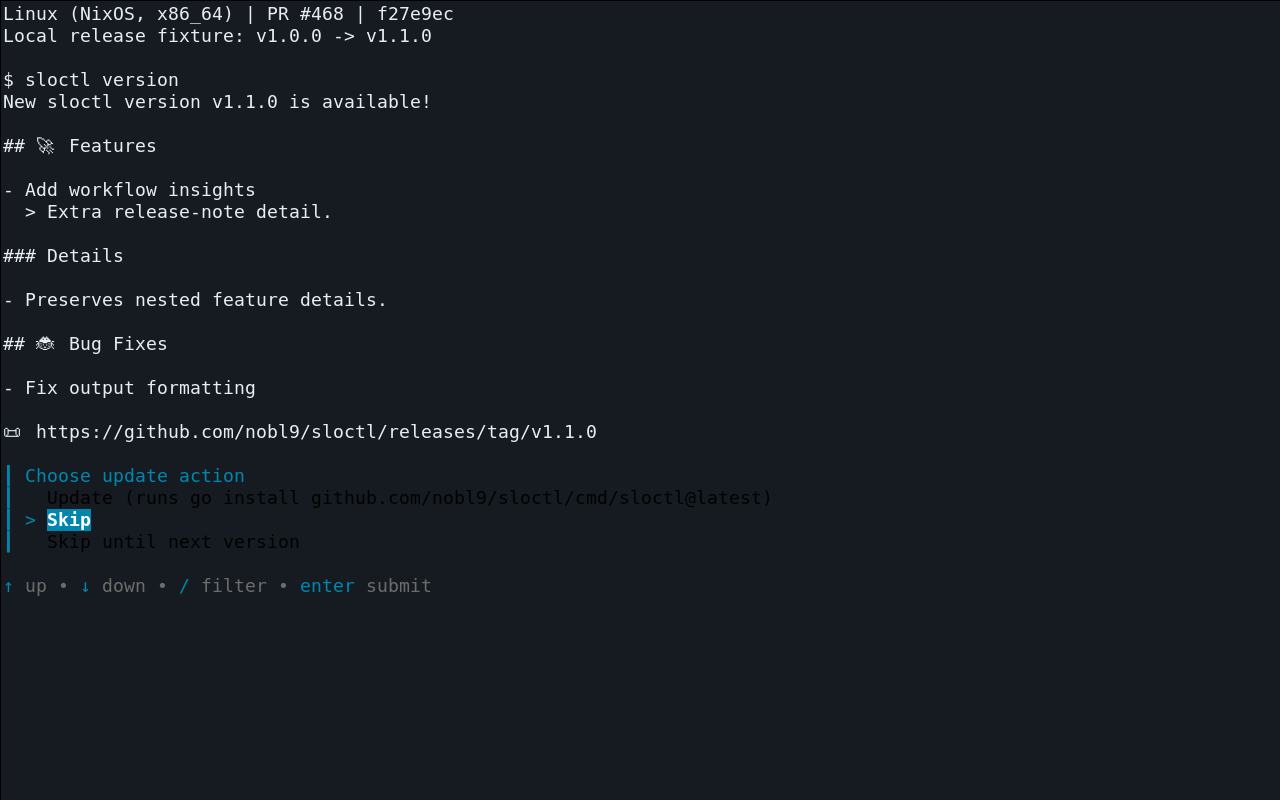
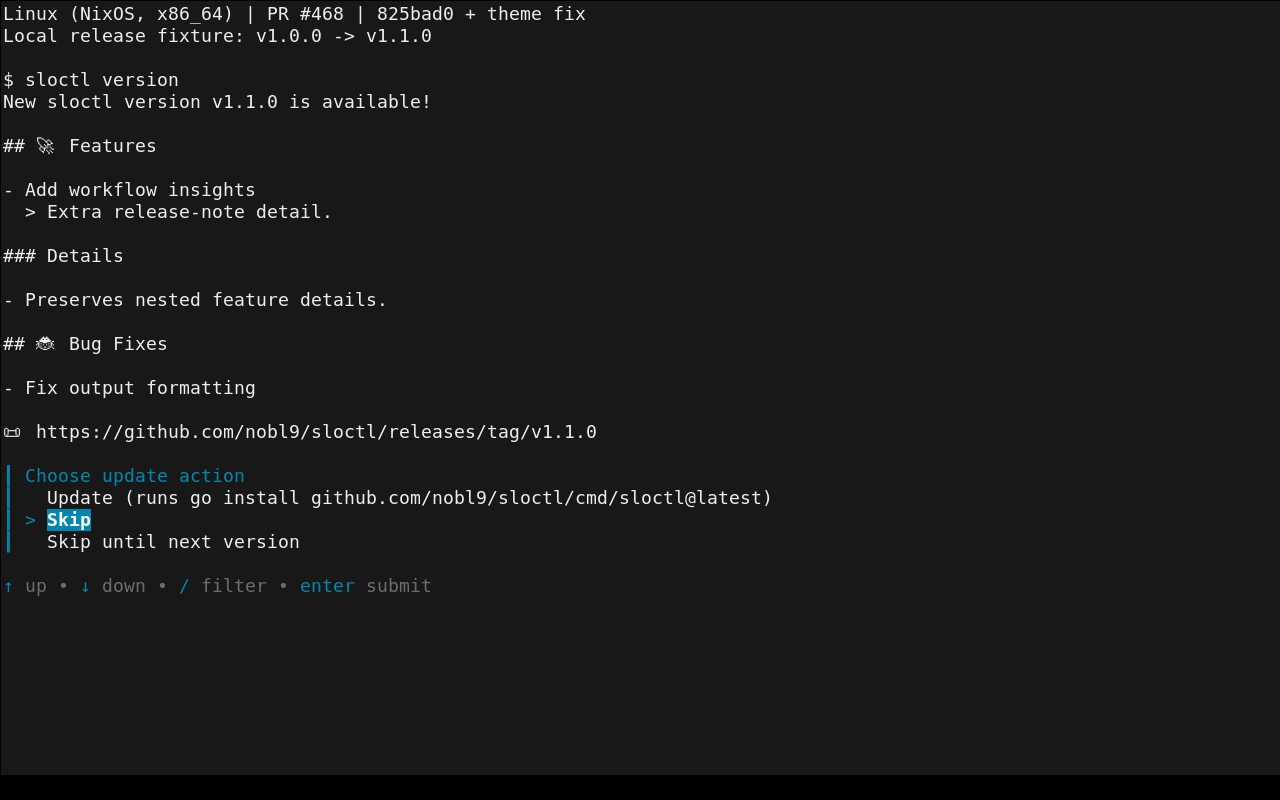
fix: inherit terminal foreground in form text

diff --git a/internal/style/theme.go b/internal/style/theme.go
@@ -25,7 +25,8 @@ func HuhTheme(isDark bool) *huh.Styles {
 	lightDark := lipgloss.LightDark(isDark)
 	accent := lightDark(lipgloss.Color("#00819E"), lipgloss.Color("#00BAD3"))
 	muted := lightDark(lipgloss.Color("#676868"), lipgloss.Color("#BABBBB"))
-	text := lightDark(lipgloss.Color("#000000"), white)
+	// Keep ordinary text readable even when background detection is unavailable.
+	text := lipgloss.NoColor{}
 	selectedBackground := lightDark(lipgloss.Color("#00819E"), lipgloss.Color("#01465C"))
 	t.Focused.Base = t.Focused.Base.BorderForeground(accent)
 	t.Focused.Card = t.Focused.Base
